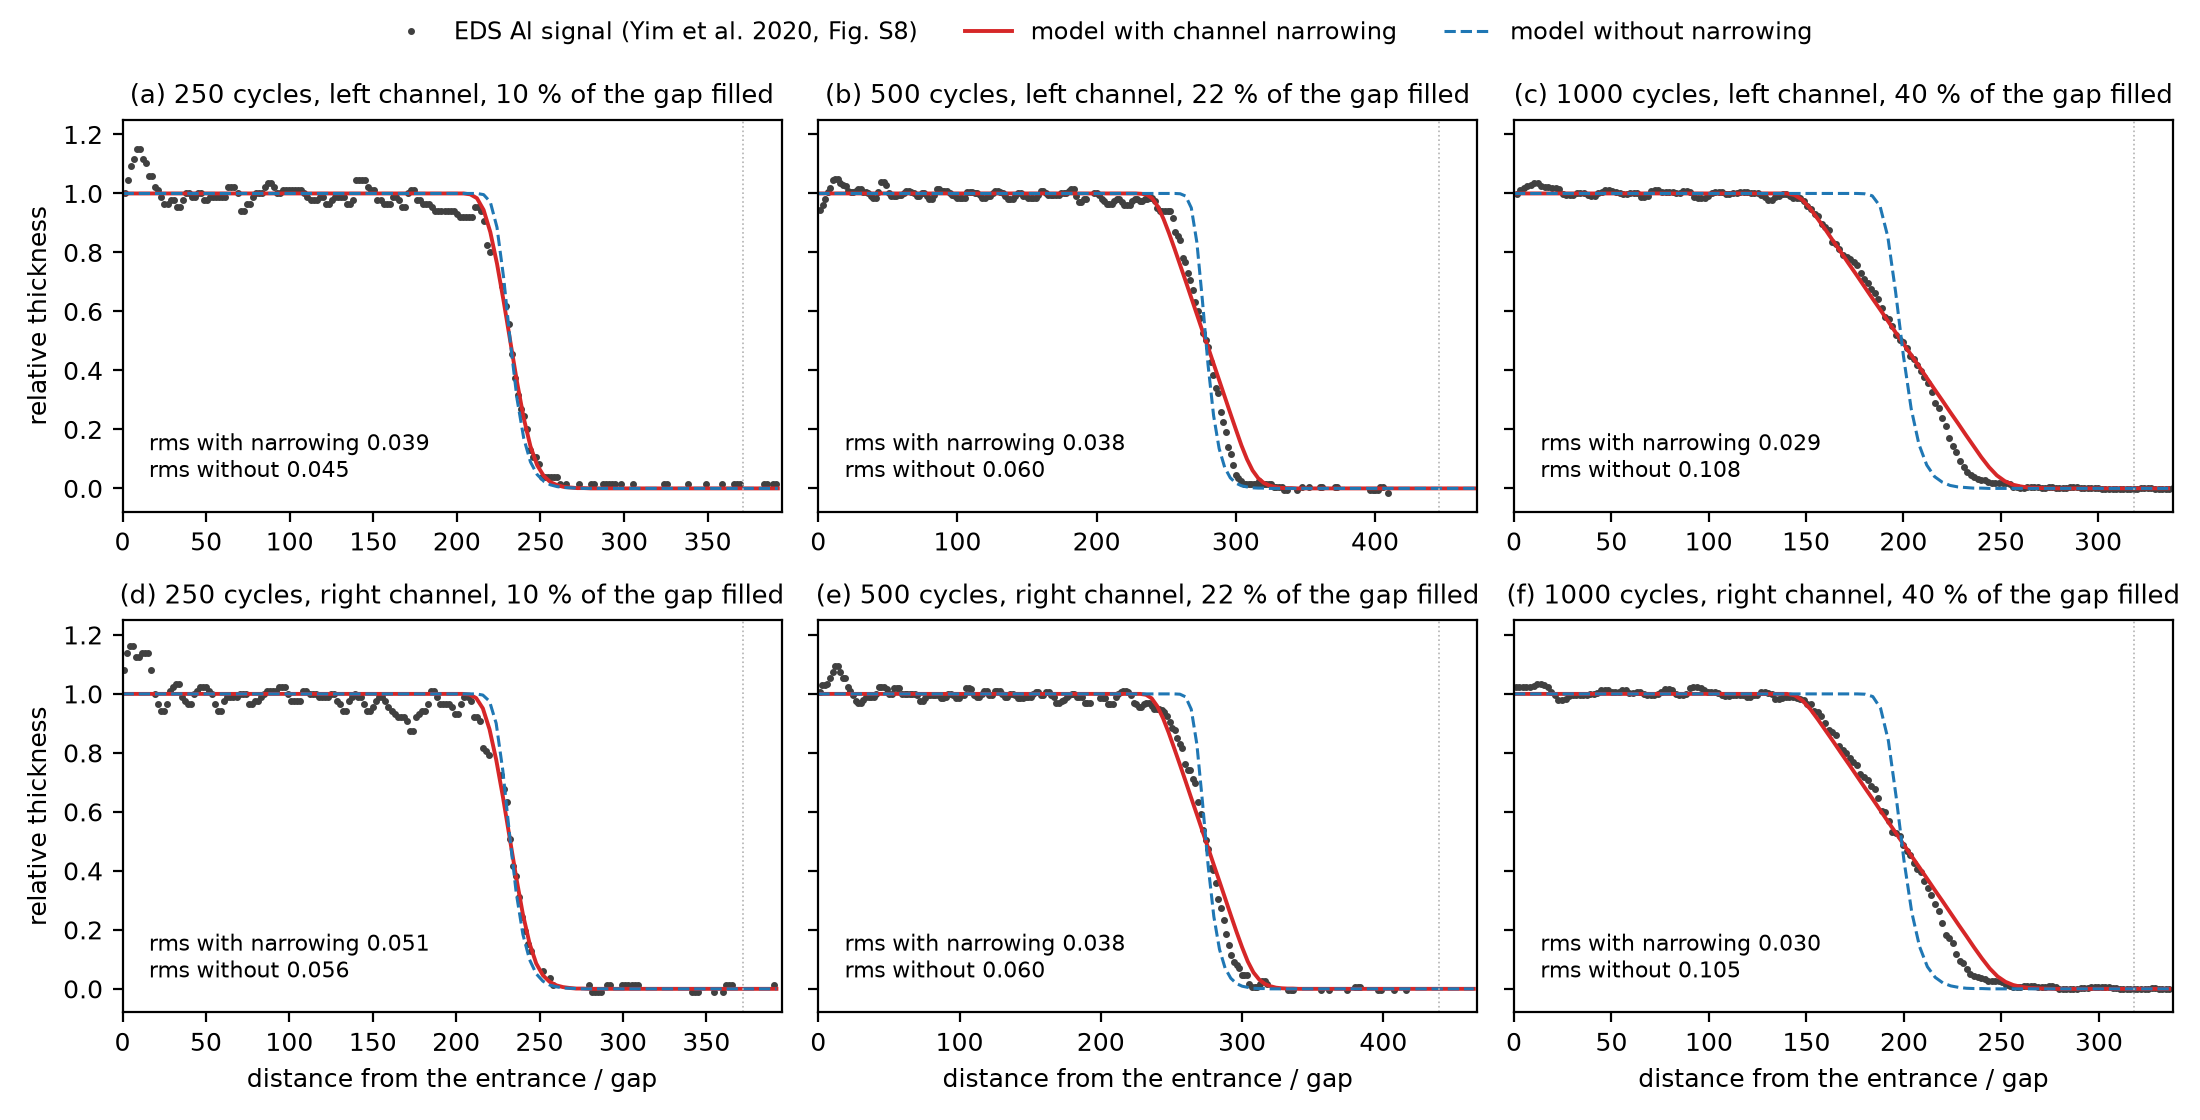
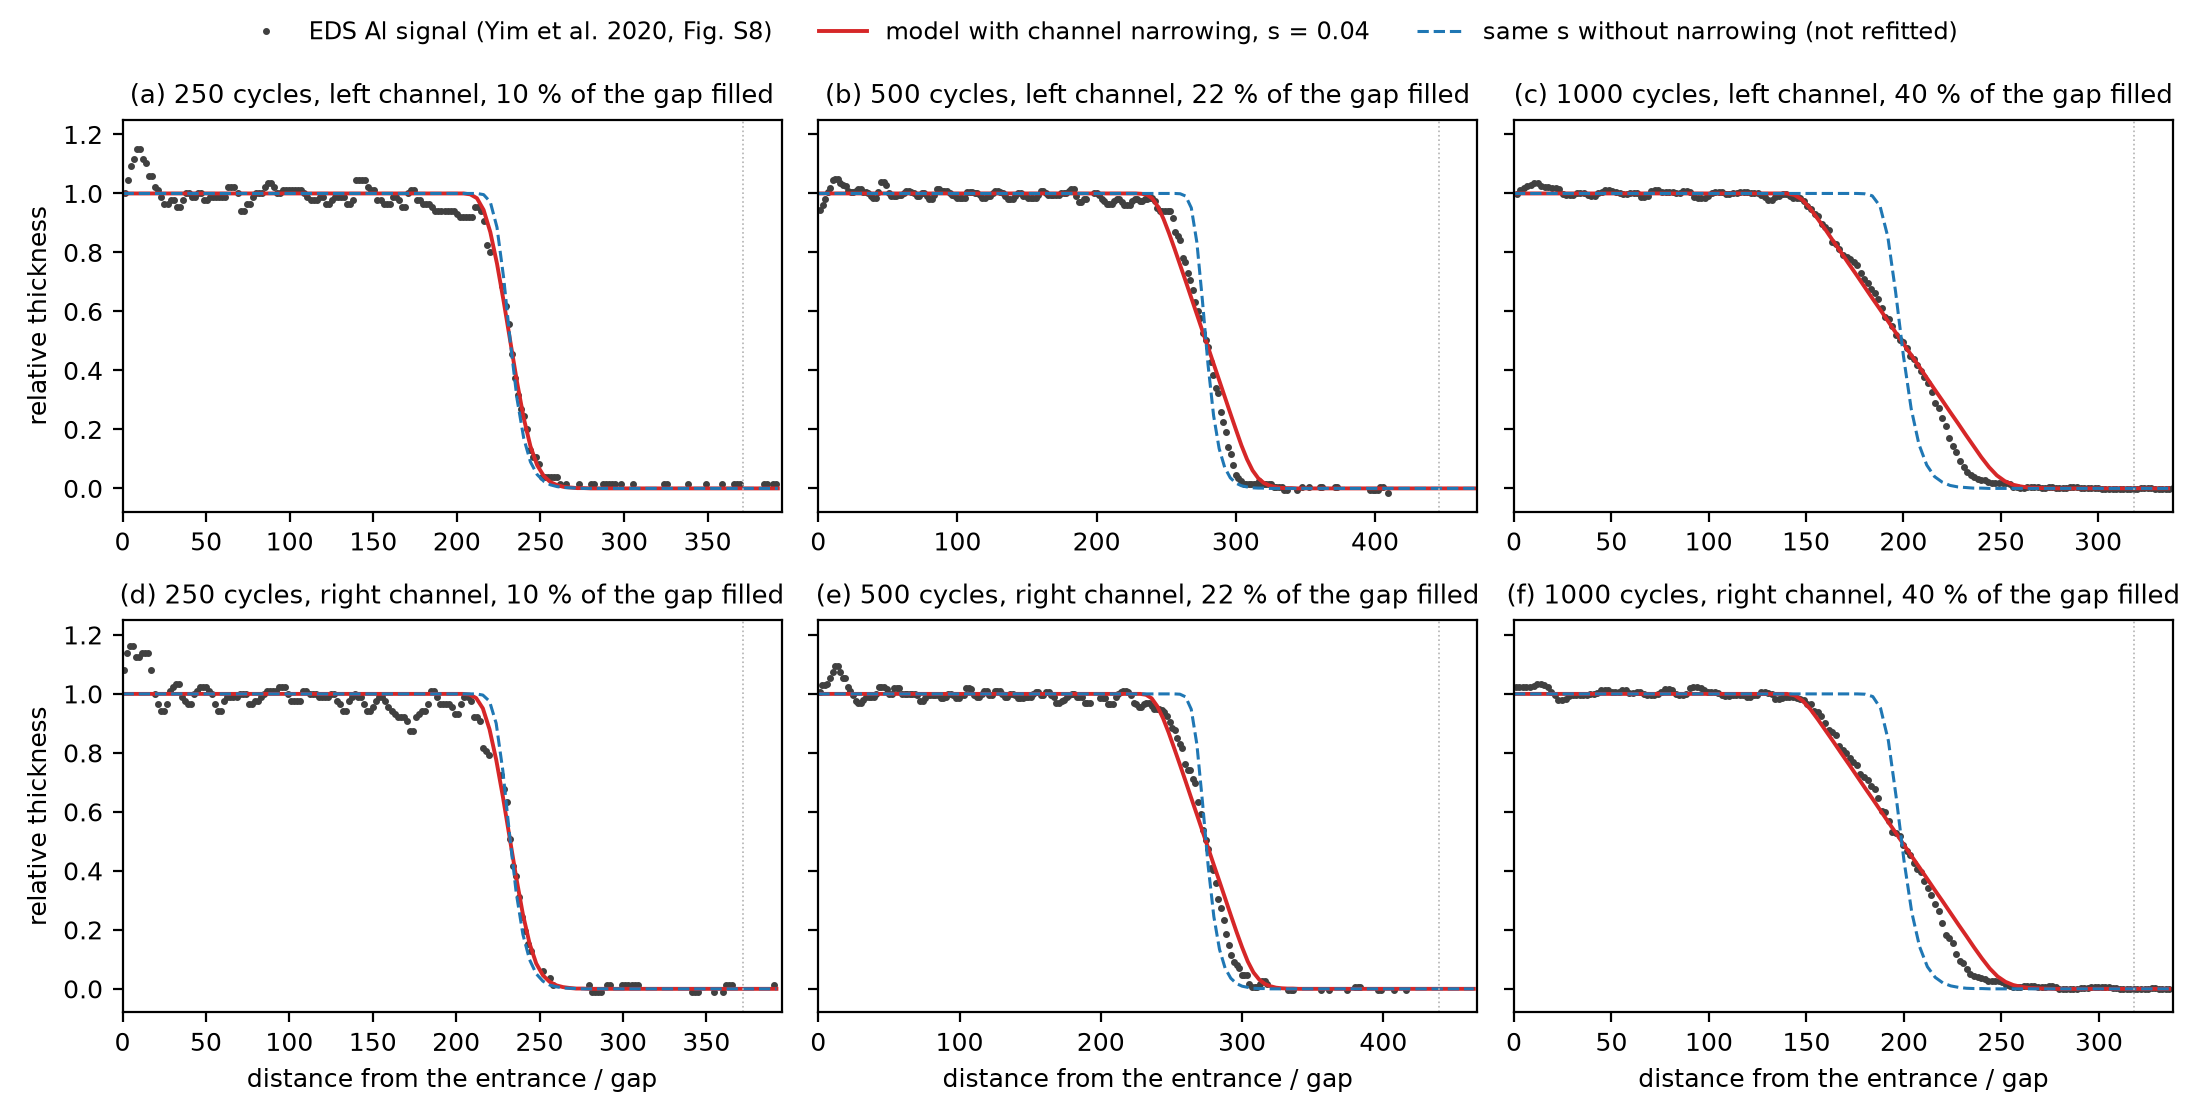
Paper figures: one name per transport model; EDS figure states that the curve without narrowing is not refitted

diff --git a/docs/paper/mechanism_figures.py b/docs/paper/mechanism_figures.py
@@ -75,7 +75,7 @@ summ = json.loads((FIG / "mechanism_summary.json").read_text()); fig, ax = plt.s
 for a, models, t in ((ax[0], ("hydraulic", "ballistic", "gas"), "(a) transport model alone"), (ax[1], ("hydraulic+narrowing+spot", "ballistic+narrowing+spot", "gas+narrowing+spot"), "(b) with channel narrowing and spot size")):
     for m, c, mk in zip(models, ("k", "C0", "C3"), ("o", "s", "^")):
         g = cmp_[(cmp_.model == m) & cmp_.predicted_slope.notna()]; q = summ["models"][m]
-        a.plot(g.measured_slope, g.predicted_slope, mk, color=c, ms=4.5, mfc="none", label=f"{m.split('+')[0]}: s = {q['s']:.2g}, rms ln error {q['rms_ln']} (n = {q['n']})")
+        a.plot(g.measured_slope, g.predicted_slope, mk, color=c, ms=4.5, mfc="none", label=f"{ {'ballistic': 'gas-free', 'gas': 'gas, 300 Pa'}.get(m.split('+')[0], m.split('+')[0]) }: s = {q['s']:.2g}, rms ln error {q['rms_ln']} (n = {q['n']})")
     a.plot([0.003, 0.07], [0.003, 0.07], "k-", lw=0.7); a.set_xscale("log"); a.set_yscale("log"); a.set_xlabel("measured front slope"); a.set_title(t); a.legend(frameon=False, loc="upper left")
     a.set_xticks([0.005, 0.01, 0.02, 0.05]); a.set_xticklabels(["0.005", "0.01", "0.02", "0.05"]); a.set_yticks([0.005, 0.01, 0.02, 0.05]); a.set_yticklabels(["0.005", "0.01", "0.02", "0.05"]); a.minorticks_off()
 ax[0].set_ylabel("predicted front slope (s frozen from the calibration profiles)"); fig.tight_layout(); fig.savefig(OUT / "fig11_heldout.png"); plt.close(fig)

diff --git a/docs/paper/final_figures.py b/docs/paper/final_figures.py
@@ -19,11 +19,10 @@ fig, ax = plt.subplots(2, 3, figsize=(11, 5.6), sharey=True)
 for c in C:
     j = (250, 500, 1000).index(c["cycles"]); i = ("left", "right").index(c["channel"]); a = ax[i, j]
     a.plot(c["z"], c["y"], ".", color="0.25", ms=3, label="EDS Al signal (Yim et al. 2020, Fig. S8)")
-    a.plot(c["grid"], c["with_narrowing"], "C3-", lw=1.4, label="model with channel narrowing")
-    a.plot(c["grid"], c["without"], "C0--", lw=1.1, label="model without narrowing")
+    a.plot(c["grid"], c["with_narrowing"], "C3-", lw=1.4, label="model with channel narrowing, s = 0.04")
+    a.plot(c["grid"], c["without"], "C0--", lw=1.1, label="same s without narrowing (not refitted)")
     a.axvline(1.6 * c["z50"], color="0.7", lw=0.6, ls=":"); a.set_xlim(0, 1.7 * c["z50"]); a.set_ylim(-0.08, 1.25)
     a.set_title(f"({'abcdef'[3 * i + j]}) {c['cycles']} cycles, {c['channel']} channel, {100 * c['fill']:.0f} % of the gap filled")
-    a.text(0.04, 0.07, f"rms with narrowing {c['rms_with']:.3f}\nrms without {c['rms_without']:.3f}", transform=a.transAxes, fontsize=8, va="bottom")
     if i == 1: a.set_xlabel("distance from the entrance / gap")
     if j == 0: a.set_ylabel("relative thickness")
 h, l = ax[0, 0].get_legend_handles_labels(); fig.legend(h, l, loc="upper center", ncol=3, frameon=False, fontsize=8.5)
